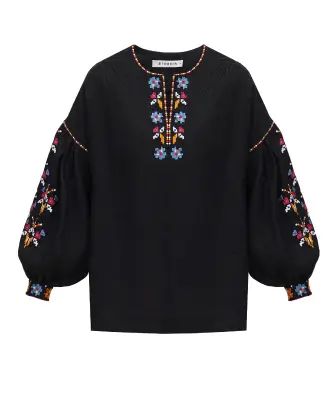
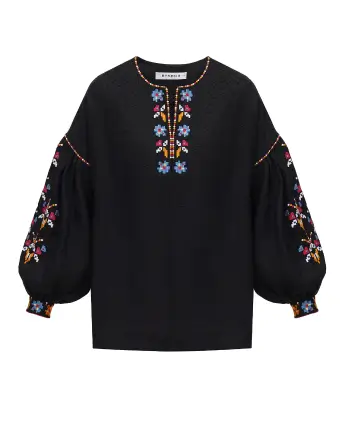
fixed first img in our-collection-section

diff --git a/src/partials/our-collection.html b/src/partials/our-collection.html
@@ -27,7 +27,7 @@
                   /img/our-collection/1mob@2x.webp 2x
                 "
               />
-              <img src="/img/our-collection/1-desk1280.webp" alt="vyshyvanka" />
+              <img src="../img//our-collection/1-desk1280.webp" alt="vyshyvanka" />
             </picture>
   <div class="our-collection-text">
     <h3 class="our-collection-item-name">

diff --git a/src/css/our-collection.css b/src/css/our-collection.css
@@ -56,6 +56,16 @@ letter-spacing: 0.05em;
 color: rgba(252, 249, 249, 0.4);
 }
 
+@media screen and (max-width: 767px) {
+    .our-collection-item {
+        height: 484px;
+    }
+
+    .our-collection-picture img {
+        height: 430px;
+    }
+}
+
 @media screen and (min-width: 768px) {
     .our-collection {
         padding-top: 50px;
